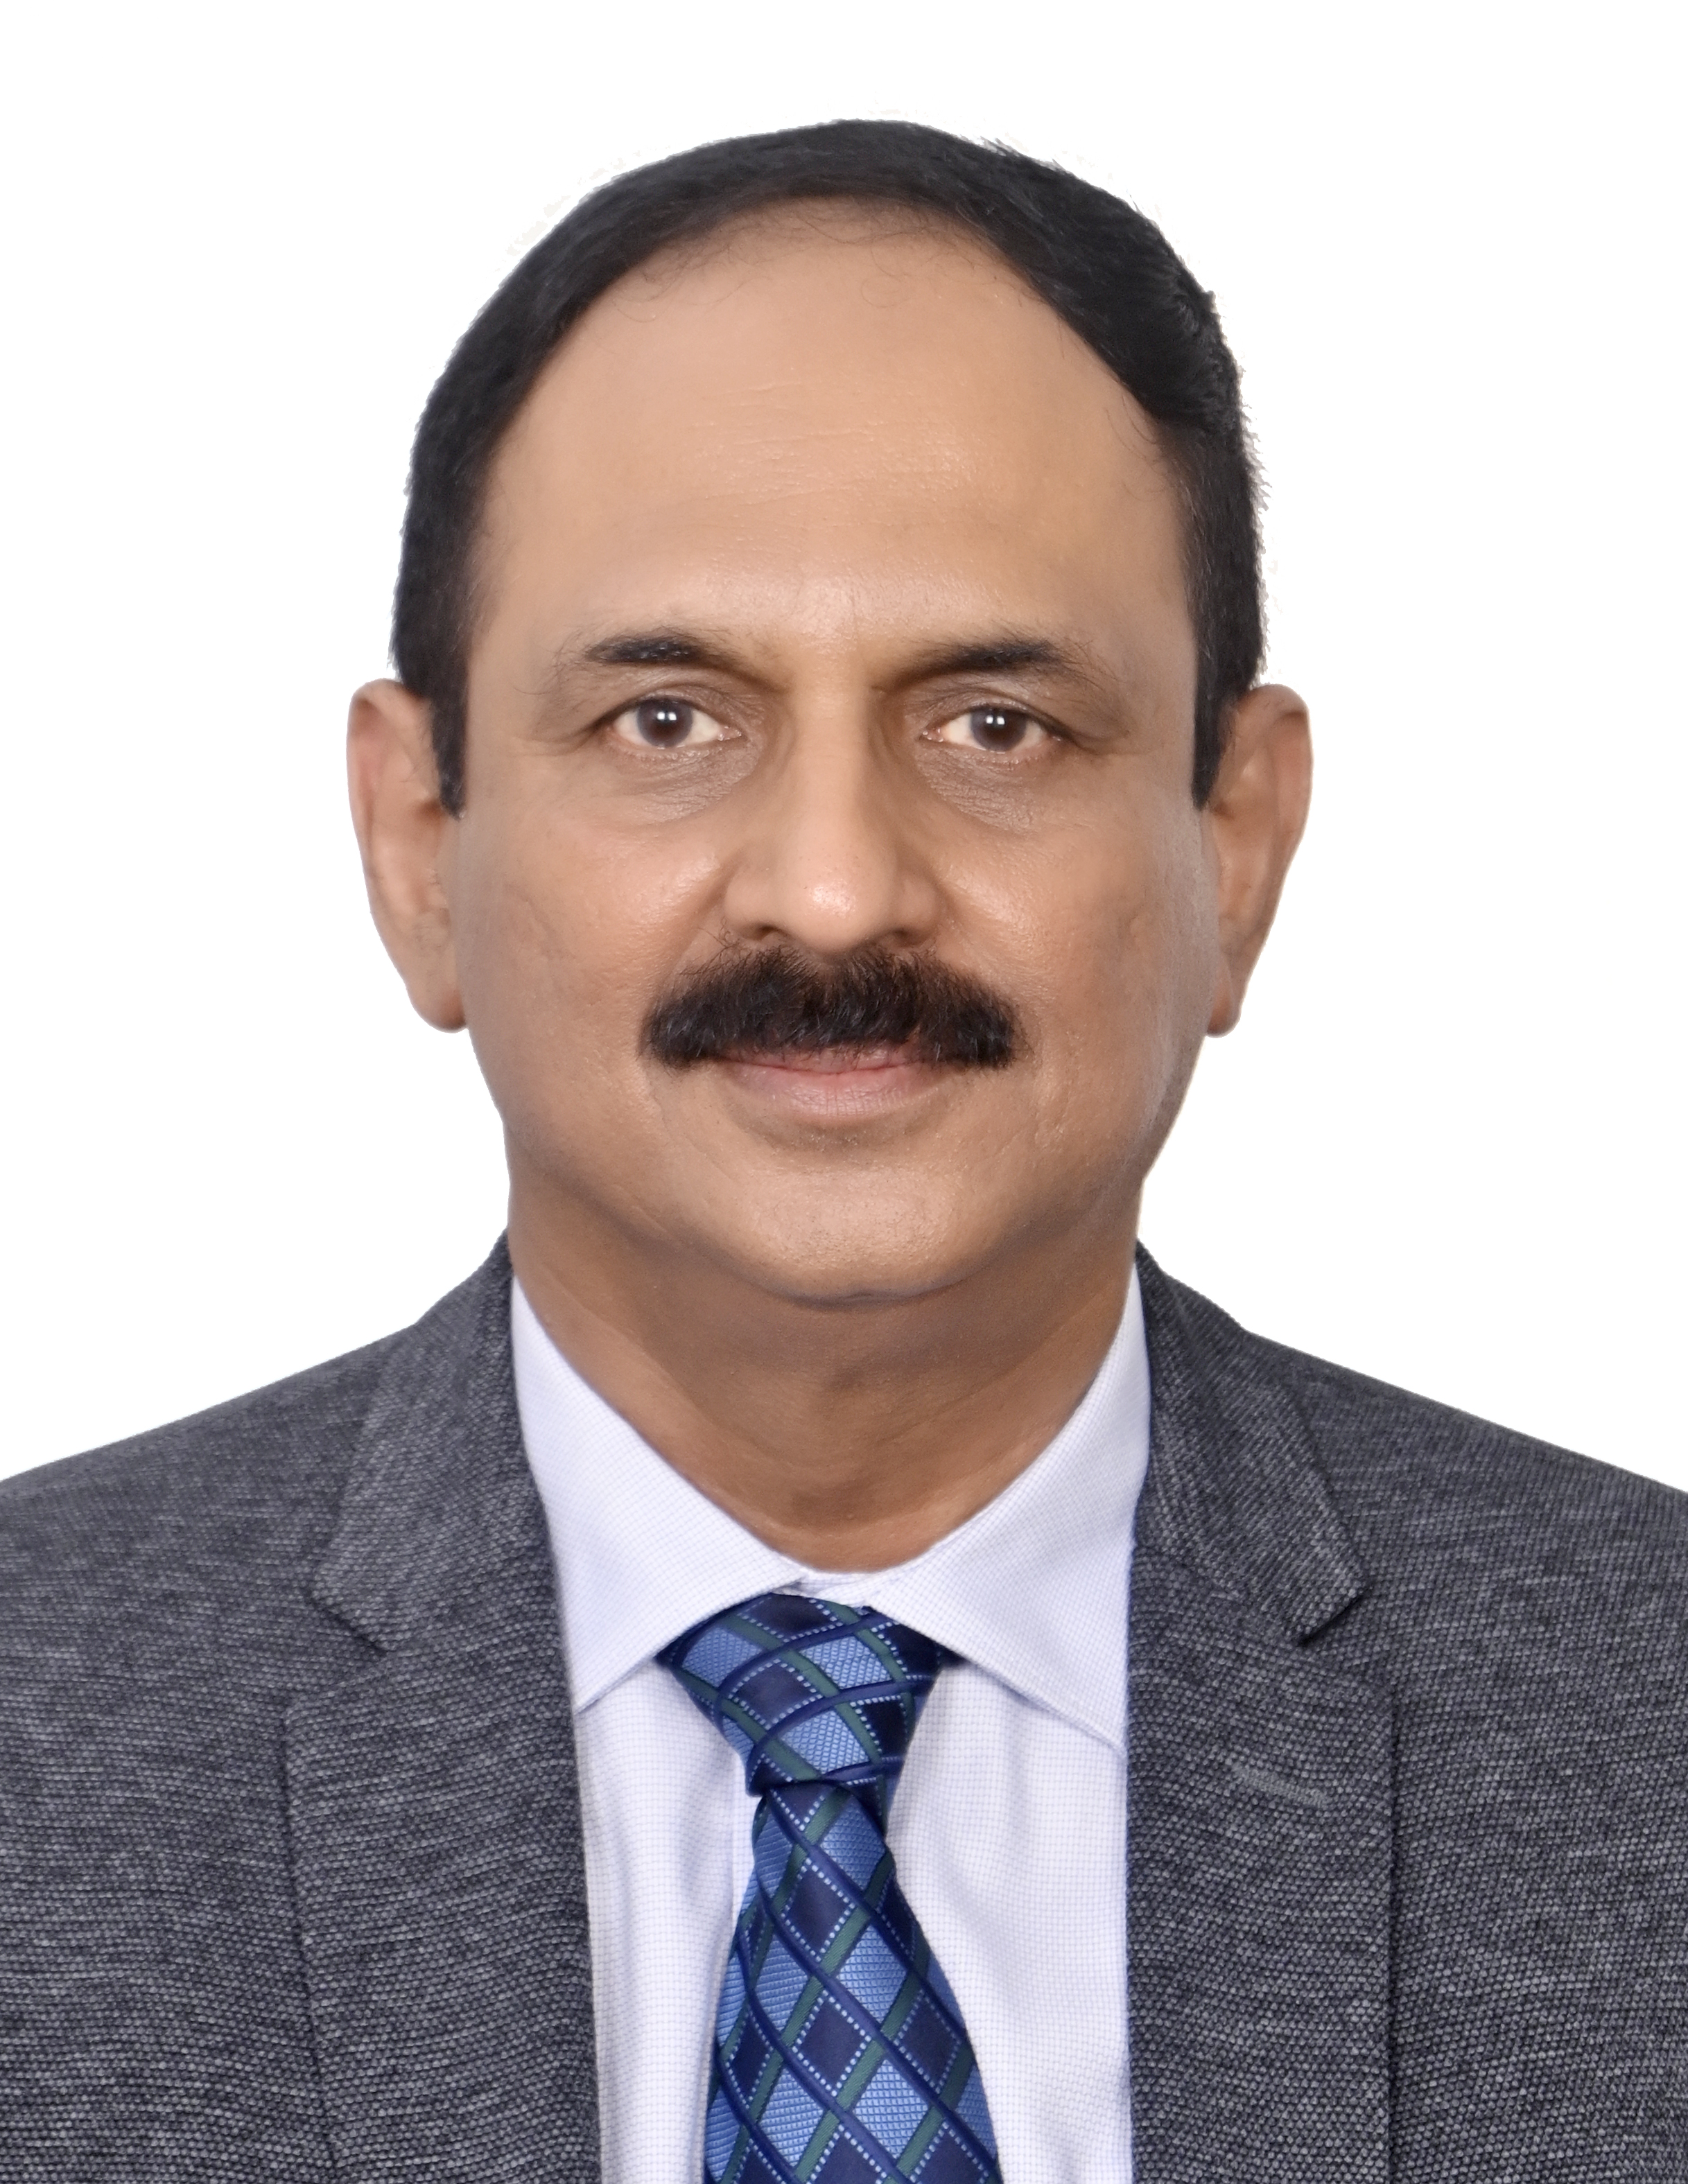
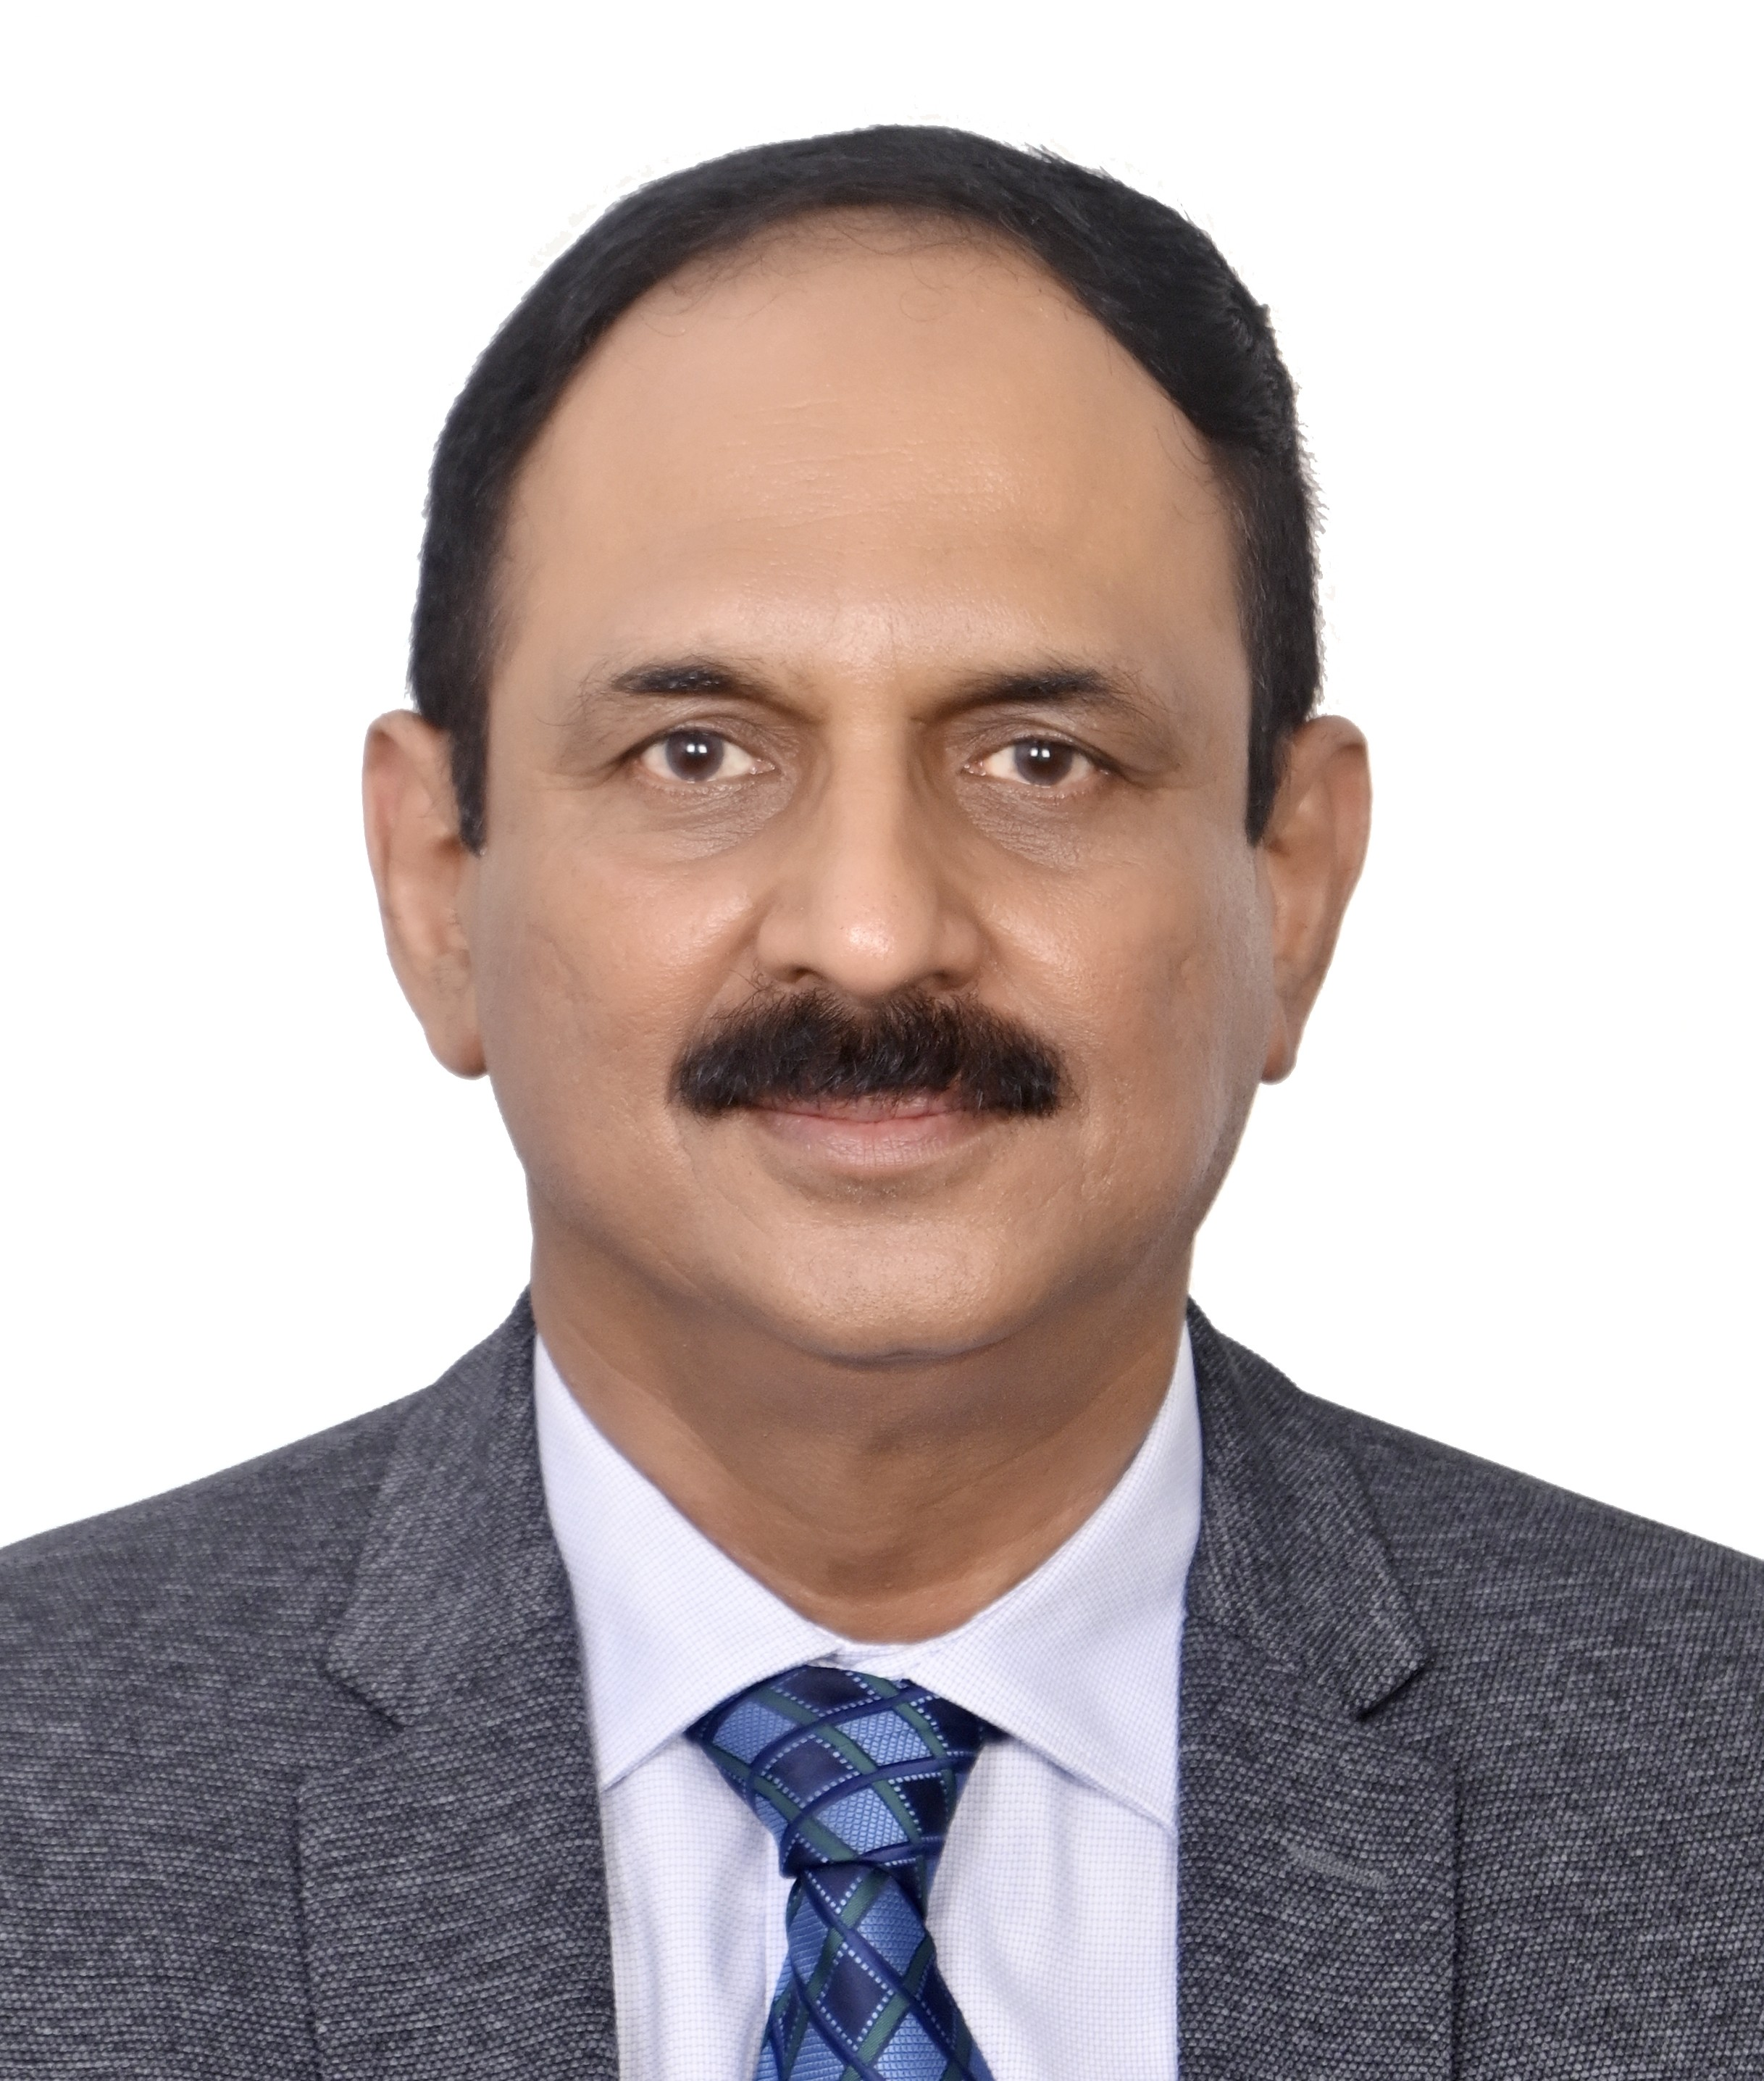
index

diff --git a/speakers/2026/himanshu-kumar-das/index.html b/speakers/2026/himanshu-kumar-das/index.html
@@ -92,50 +92,64 @@
       <h2 class="sect-heading">Panel <span class="red">Discussion</span></h2>
 
       <div class="talk-header" style="margin-top:2rem">
-        <h2 class="talk-title">TBA</h2>
-        <div class="talk-meta">
-          <span class="talk-meta-track">Main Track</span>
-          <span class="talk-meta-level">Intermediate</span>
-          <span>45 Minutes</span>
-        <!--  <span>Live Demo</span> -->
+          <h2 class="talk-title">The Weakest Link? Supply Chain Breaches, Securing the AI Economy, and Autonomous Agents</h2>
+          <div class="talk-meta">
+            <span class="talk-meta-track">CXO Track</span>
+            <span class="talk-meta-level">Intermediate</span>
+            <span>45 Minutes</span>
+            <!--  <span>Live Demo</span> -->
+          </div>
         </div>
-      </div>
 
-      <div class="talk-abstract">
+        <div class="talk-abstract">
 
-        <p>TBA </p>
-      </div>
+          <p>TBA</p>
+        </div>
 
-      <div class="talk-details-grid">
-        <div class="talk-detail-card">
-          <div class="tdc-label">
-            <svg viewBox="0 0 24 24"><rect x="3" y="4" width="18" height="18" rx="2"/><line x1="16" y1="2" x2="16" y2="6"/><line x1="8" y1="2" x2="8" y2="6"/><line x1="3" y1="10" x2="21" y2="10"/></svg>
-            Date
+        <div class="talk-details-grid">
+          <div class="talk-detail-card">
+            <div class="tdc-label">
+              <svg viewBox="0 0 24 24">
+                <rect x="3" y="4" width="18" height="18" rx="2" />
+                <line x1="16" y1="2" x2="16" y2="6" />
+                <line x1="8" y1="2" x2="8" y2="6" />
+                <line x1="3" y1="10" x2="21" y2="10" />
+              </svg>
+              Date
+            </div>
+            <div class="tdc-value">9 May 2026</div>
           </div>
-          <div class="tdc-value">9 May 2026</div>
-        </div>
-        <div class="talk-detail-card">
-          <div class="tdc-label">
-            <svg viewBox="0 0 24 24"><circle cx="12" cy="12" r="10"/><polyline points="12 6 12 12 16 14"/></svg>
-            Time
+          <div class="talk-detail-card">
+            <div class="tdc-label">
+              <svg viewBox="0 0 24 24">
+                <circle cx="12" cy="12" r="10" />
+                <polyline points="12 6 12 12 16 14" />
+              </svg>
+              Time
+            </div>
+            <div class="tdc-value">05:00 PM - 05:45 PM IST</div>
           </div>
-          <div class="tdc-value">TBA</div>
-        </div>
-        <div class="talk-detail-card">
-          <div class="tdc-label">
-            <svg viewBox="0 0 24 24"><path d="M21 10c0 7-9 13-9 13s-9-6-9-13a9 9 0 0 1 18 0z"/><circle cx="12" cy="10" r="3"/></svg>
-            Venue
+          <div class="talk-detail-card">
+            <div class="tdc-label">
+              <svg viewBox="0 0 24 24">
+                <path d="M21 10c0 7-9 13-9 13s-9-6-9-13a9 9 0 0 1 18 0z" />
+                <circle cx="12" cy="10" r="3" />
+              </svg>
+              Venue
+            </div>
+            <div class="tdc-value">CXO Track</div>
           </div>
-          <div class="tdc-value">Main Stage</div>
-        </div>
-        <div class="talk-detail-card">
-          <div class="tdc-label">
-            <svg viewBox="0 0 24 24"><path d="M20.84 4.61a5.5 5.5 0 0 0-7.78 0L12 5.67l-1.06-1.06a5.5 5.5 0 0 0-7.78 7.78l1.06 1.06L12 21.23l7.78-7.78 1.06-1.06a5.5 5.5 0 0 0 0-7.78z"/></svg>
-            Format
+          <div class="talk-detail-card">
+            <div class="tdc-label">
+              <svg viewBox="0 0 24 24">
+                <path
+                  d="M20.84 4.61a5.5 5.5 0 0 0-7.78 0L12 5.67l-1.06-1.06a5.5 5.5 0 0 0-7.78 7.78l1.06 1.06L12 21.23l7.78-7.78 1.06-1.06a5.5 5.5 0 0 0 0-7.78z" />
+              </svg>
+              Format
+            </div>
+            <div class="tdc-value">Panel Discussion</div>
           </div>
-          <div class="tdc-value">Panel Discussion</div>
         </div>
-      </div>
 
       <!-- Bullet points if required
 

diff --git a/speakers/2026/ajith-balagopal/index.html b/speakers/2026/ajith-balagopal/index.html
@@ -114,7 +114,7 @@
         <div class="talk-header" style="margin-top:2rem">
           <h2 class="talk-title">The Weakest Link? Supply Chain Breaches, Securing the AI Economy, and Autonomous Agents</h2>
           <div class="talk-meta">
-            <span class="talk-meta-track">Main Track</span>
+            <span class="talk-meta-track">CXO Track</span>
             <span class="talk-meta-level">Intermediate</span>
             <span>45 Minutes</span>
             <!--  <span>Live Demo</span> -->
@@ -147,7 +147,7 @@
               </svg>
               Time
             </div>
-            <div class="tdc-value">3:00 PM - 4:00 PM IST</div>
+            <div class="tdc-value">05:00 PM - 05:45 PM IST</div>
           </div>
           <div class="talk-detail-card">
             <div class="tdc-label">
@@ -157,7 +157,7 @@
               </svg>
               Venue
             </div>
-            <div class="tdc-value">Main Track</div>
+            <div class="tdc-value">CXO Track</div>
           </div>
           <div class="talk-detail-card">
             <div class="tdc-label">

diff --git a/speakers/2026/sunil-varkey/index.html b/speakers/2026/sunil-varkey/index.html
@@ -118,7 +118,7 @@
         <div class="talk-header" style="margin-top:2rem">
           <h2 class="talk-title">The Weakest Link? Supply Chain Breaches, Securing the AI Economy, and Autonomous Agents</h2>
           <div class="talk-meta">
-            <span class="talk-meta-track">Main track</span>
+            <span class="talk-meta-track">CXO Track</span>
             <span class="talk-meta-level">Intermediate</span>
             <span>45 Minutes</span>
             <!--  <span>Live Demo</span> -->
@@ -151,7 +151,7 @@
               </svg>
               Time
             </div>
-            <div class="tdc-value">3:00 PM - 4:00 PM IST</div>
+            <div class="tdc-value">05:00 PM - 05:45 PM IST</div>
           </div>
           <div class="talk-detail-card">
             <div class="tdc-label">
@@ -161,7 +161,7 @@
               </svg>
               Venue
             </div>
-            <div class="tdc-value">Main Track</div>
+            <div class="tdc-value">CXO Track</div>
           </div>
           <div class="talk-detail-card">
             <div class="tdc-label">